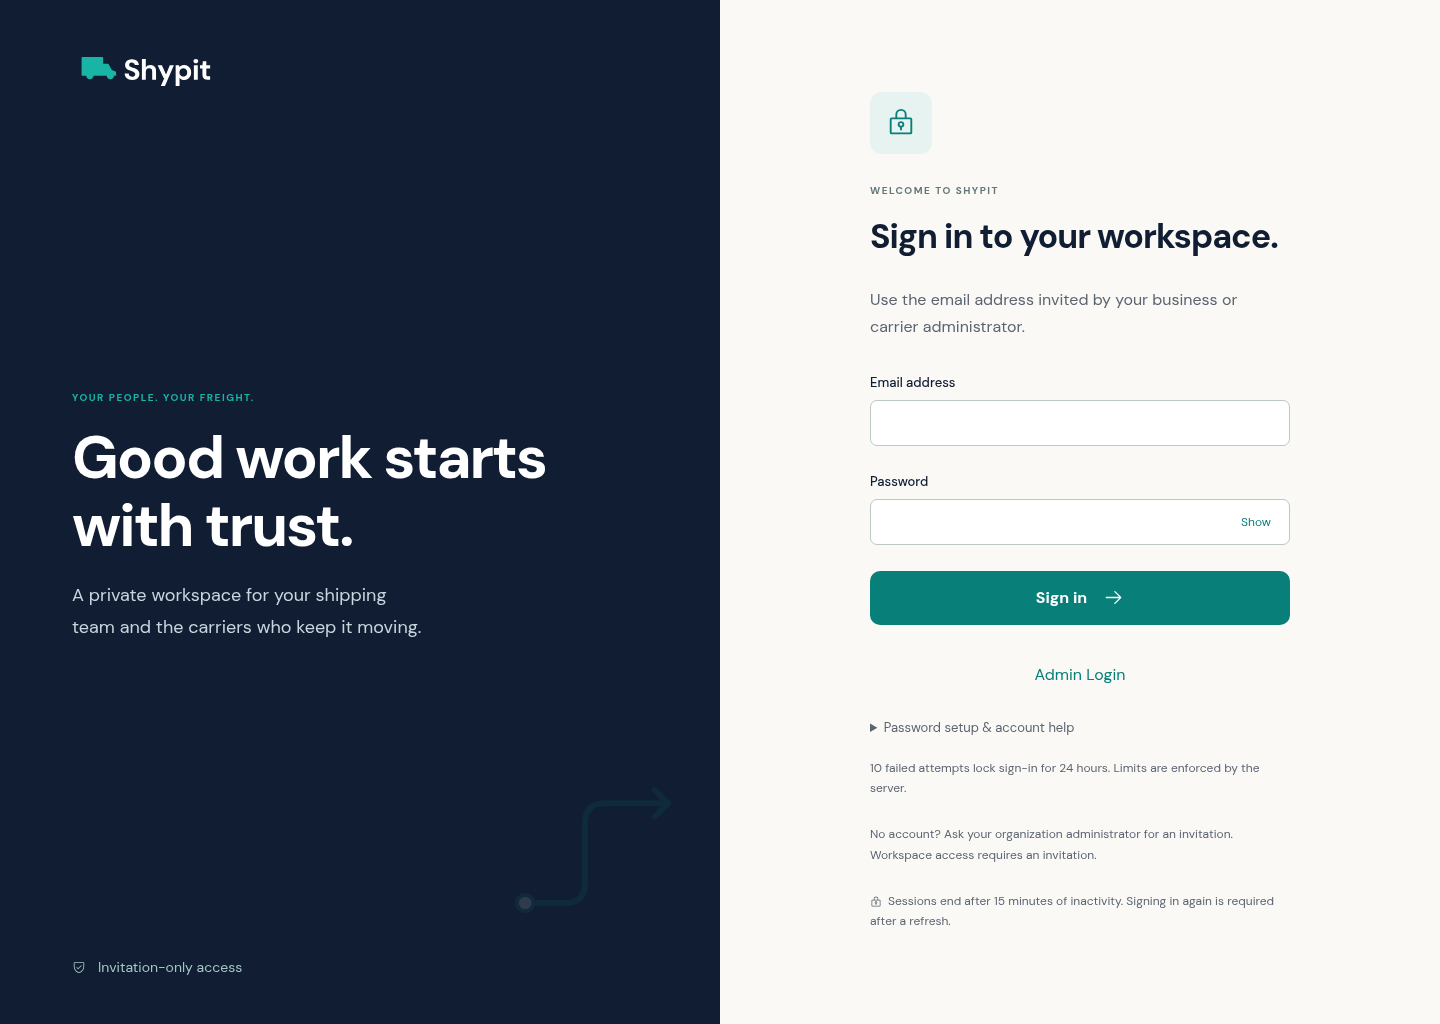
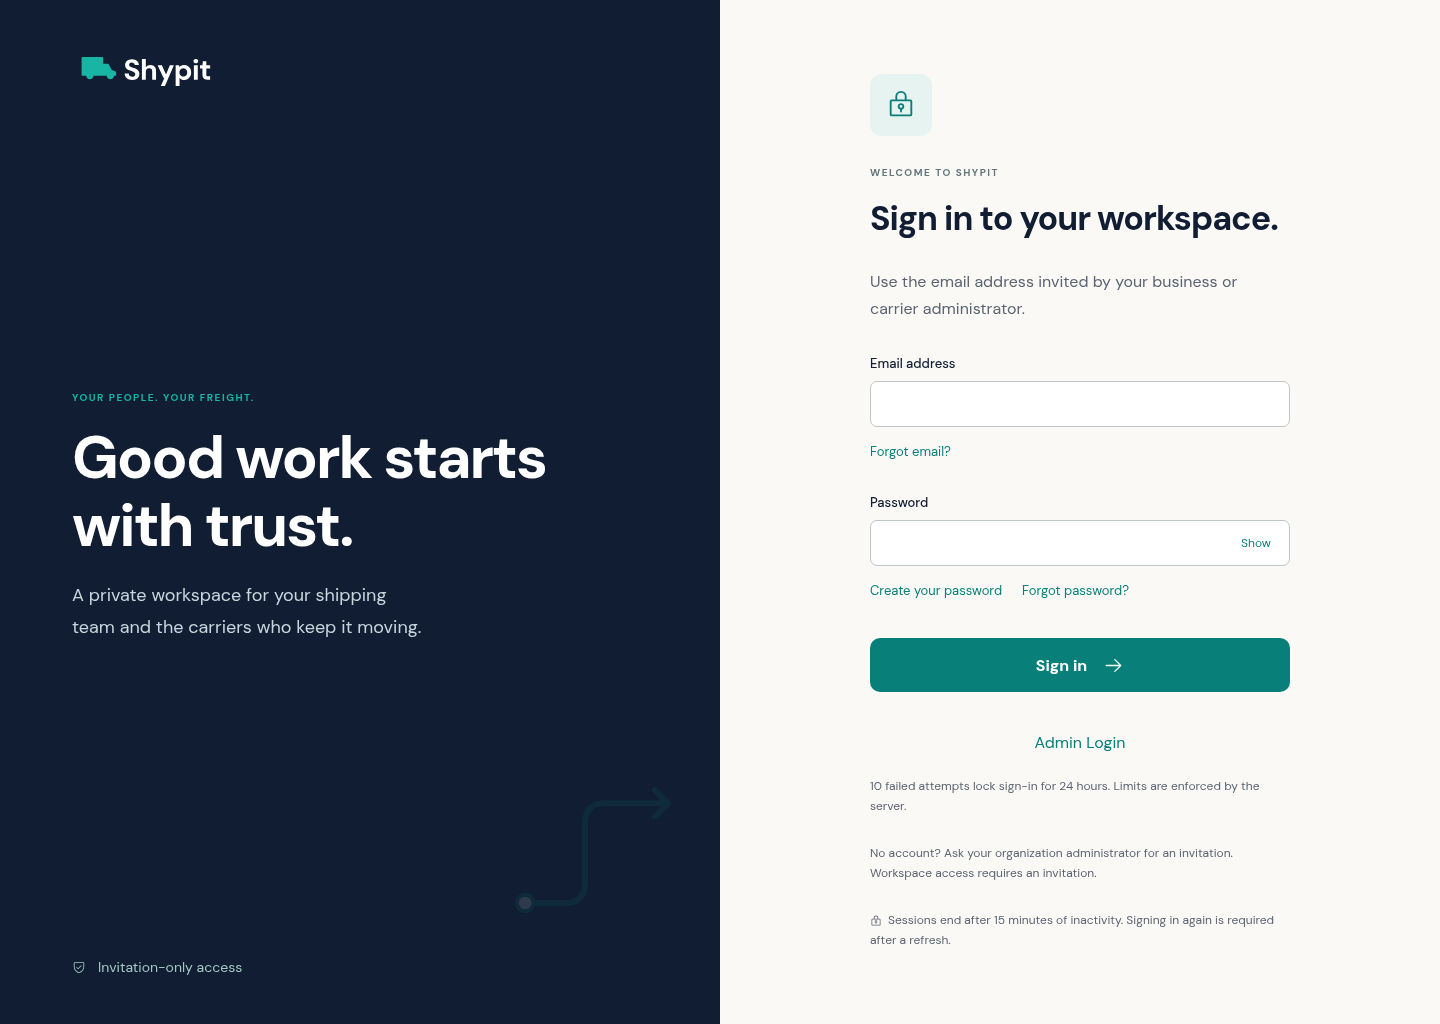
Place account recovery links beneath their related sign-in fields

diff --git a/src/auth.jsx b/src/auth.jsx
@@ -887,6 +887,15 @@ export function AuthGate({ children }) {
                       setSignInLocked(false);
                     }}
                   />
+                  <div className="field-help email-help">
+                    <button
+                      type="button"
+                      disabled={busy}
+                      onClick={() => setAccessMode("email-help")}
+                    >
+                      Forgot email?
+                    </button>
+                  </div>
                   <label htmlFor="login-password">Password</label>
                   <div className="password-input">
                     <input
@@ -907,6 +916,22 @@ export function AuthGate({ children }) {
                       onClick={() => setShowPassword(!showPassword)}
                     >
                       {showPassword ? "Hide" : "Show"}
+                    </button>
+                  </div>
+                  <div className="field-help password-help">
+                    <button
+                      type="button"
+                      disabled={busy}
+                      onClick={() => setAccessMode("setup")}
+                    >
+                      Create your password
+                    </button>
+                    <button
+                      type="button"
+                      disabled={busy}
+                      onClick={() => setAccessMode("reset")}
+                    >
+                      Forgot password?
                     </button>
                   </div>
                   <button
@@ -942,33 +967,7 @@ export function AuthGate({ children }) {
                         : "Admin Login"}
                     </button>
                   </div>
-                  <details className="login-help">
-                    <summary>
-                      {loginKind === "admin"
-                        ? "Admin account help"
-                        : "Password setup & account help"}
-                    </summary>
-                    <div className="account-links">
-                      <button
-                        type="button"
-                        onClick={() => setAccessMode("setup")}
-                      >
-                        Create your password
-                      </button>
-                      <button
-                        type="button"
-                        onClick={() => setAccessMode("reset")}
-                      >
-                        Forgot password?
-                      </button>
-                      <button
-                        type="button"
-                        onClick={() => setAccessMode("email-help")}
-                      >
-                        Forgot email?
-                      </button>
-                    </div>
-                  </details>
+
                   <p className="auth-note">
                     10 failed attempts lock sign-in for 24 hours. Limits are
                     enforced by the server.

diff --git a/tests/account-access.spec.js b/tests/account-access.spec.js
@@ -6,9 +6,6 @@ test("password creation and reset request a secure email link without exposing a
   await installAuthMock(page, { emailOtpEnabled: false, googleEnabled: false });
   await page.goto("/");
   await page
-    .getByText("Password setup & account help", { exact: true })
-    .click();
-  await page
     .getByRole("button", { name: "Create your password", exact: true })
     .click();
   await expect(
@@ -22,9 +19,6 @@ test("password creation and reset request a secure email link without exposing a
     "If this address has approved access",
   );
   await page.getByRole("button", { name: "Back to sign-in" }).click();
-  await page
-    .getByText("Password setup & account help", { exact: true })
-    .click();
   await page.getByRole("button", { name: "Forgot password?" }).click();
   await expect(
     page.getByRole("heading", { name: "Reset your password." }),
@@ -80,9 +74,6 @@ test("forgot-email requests private administrator review without disclosing save
 }) => {
   await installAuthMock(page, { emailOtpEnabled: false, googleEnabled: false });
   await page.goto("/");
-  await page
-    .getByText("Password setup & account help", { exact: true })
-    .click();
   await page.getByRole("button", { name: "Forgot email?" }).click();
   await page.getByLabel("Full name").fill("Preview founder");
   await page.getByLabel("Business or LLC name").fill("Sample LLC");
@@ -118,9 +109,6 @@ test("recovery request limit disables sending after the server refuses the next 
 }) => {
   await installAuthMock(page, { emailOtpEnabled: false, googleEnabled: false });
   await page.goto("/");
-  await page
-    .getByText("Password setup & account help", { exact: true })
-    .click();
   await page.getByRole("button", { name: "Forgot password?" }).click();
   await page
     .getByLabel("Email address", { exact: true })
@@ -155,9 +143,6 @@ test("missing backend disables sending, explains activation and allows a fresh c
     page.getByRole("button", { name: "Sign in", exact: true }),
   ).toBeDisabled();
   await page
-    .getByText("Password setup & account help", { exact: true })
-    .click();
-  await page
     .getByRole("button", { name: "Create your password", exact: true })
     .click();
   await expect(
@@ -181,9 +166,6 @@ test("a network failure is explained without claiming an email was sent", async 
     r.abort("failed"),
   );
   await page.goto("/");
-  await page
-    .getByText("Password setup & account help", { exact: true })
-    .click();
   await page
     .getByRole("button", { name: "Create your password", exact: true })
     .click();

diff --git a/src/styles.css b/src/styles.css
@@ -1479,15 +1479,28 @@ footer .brand-lockup {
   width: auto;
   min-height: 44px;
 }
-.login-help {
-  margin: 12px 0;
-  color: var(--muted);
+
+.field-help {
+  display: flex;
+  align-items: center;
+  flex-wrap: wrap;
+  gap: 0 20px;
+  margin: 2px 0 18px;
+}
+.field-help button {
+  color: var(--teal);
   font-size: 13px;
+  min-height: 44px;
+  padding: 6px 0;
+  text-align: left;
 }
-.login-help summary {
-  cursor: pointer;
-  padding: 10px 0;
+.password-form .field-help + label {
+  margin-top: 0;
 }
-.login-help .account-links {
-  margin-top: 4px;
+.password-form .password-help {
+  margin-bottom: 10px;
+}
+.password-form #login-email,
+.password-form #login-password {
+  margin-bottom: 0;
 }

diff --git a/tests/admin.spec.js b/tests/admin.spec.js
@@ -121,7 +121,7 @@ test("public Admin Login leads to checked admin sign-in with account help in con
     page.getByRole("heading", { name: "Admin sign-in." }),
   ).toBeVisible();
   await expect(
-    page.getByText("Admin account help", { exact: true }),
+    page.getByRole("button", { name: "Forgot password?", exact: true }),
   ).toBeVisible();
   await page
     .getByLabel("Email address", { exact: true })

diff --git a/docs/admin-workspace.md b/docs/admin-workspace.md
@@ -1,6 +1,6 @@
 # Shypit admin workspace
 
-Use the existing approved account and password, then choose **Admin Login**. The public sign-in page also has an **Admin Login** text action that opens the admin sign-in flow. Password setup and recovery remain under the relevant account-help control. Both founders receive protected owner grants. No shared login or extra password is created. The grants are seeded from private SHA-256 email identifiers through the secured database activation workflow; no founder email addresses are stored in this public repository.
+Use the existing approved account and password, then choose **Admin Login**. The public sign-in page also has an **Admin Login** text action that opens the admin sign-in flow. Email recovery sits beneath the email field; password creation and recovery sit beneath the password field. Both founders receive protected owner grants. No shared login or extra password is created. The grants are seeded from private SHA-256 email identifiers through the secured database activation workflow; no founder email addresses are stored in this public repository.
 
 Owners can review saved pilot counts and records, grant or suspend limited admin access for existing verified members, suspend or restore workspace access, and inspect the latest 100 admin access changes. Founder grants cannot be altered through the application. Founder recovery requires the Supabase project administrator. Keep project ownership and recovery access secure.
 
